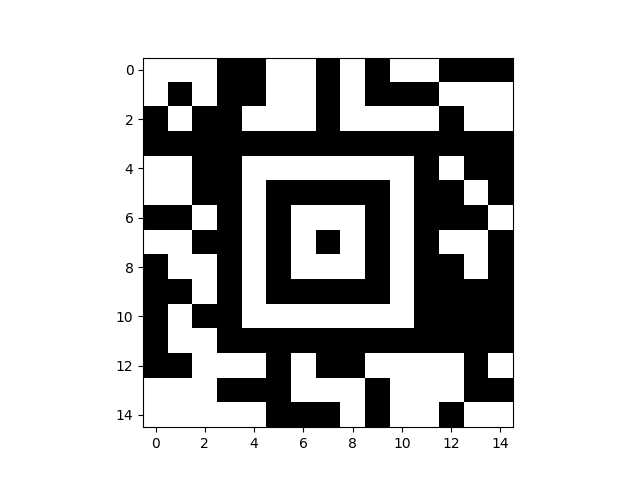
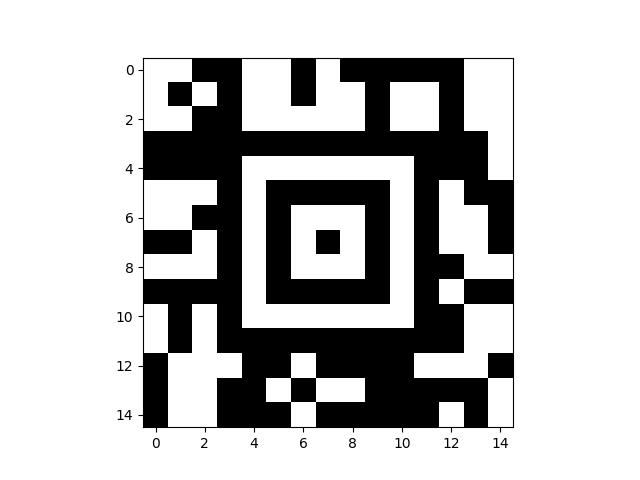
Both encoder and decoder works

diff --git a/main.py b/main.py
@@ -55,7 +55,7 @@ initialize_consts()
[2 lines of base64/hex data omitted]
 
-# aztec = AztecBarcodeCompact(hello_debug)
+aztec = AztecBarcodeCompact(hello_debug)
 # v=aztec.get_mode()
 # print(v)
 
@@ -73,7 +73,7 @@ initialize_consts()
 # v = aztec.decode()
 # print(v)
 # print("".join(v))
-
+# WORDS [0, 5, 1, 7, 13, 10, 5]                                                                                                                       
 
 
 aztec = AztecBarcodeCompact(np.zeros((15,15)))

diff --git a/pyztec/aztec.py b/pyztec/aztec.py
@@ -328,7 +328,7 @@ class AztecBarcodeCompact:
             codewords = (mode_msg & 0b111111) + 1
             self.num_layers = num_layers
             self.num_codewords = codewords
-
+        print(codewords, word_array)
         return num_layers, codewords
 
 
@@ -413,9 +413,9 @@ class AztecBarcodeCompact:
         # data_squares = n_squares - 121
 
         codewords = self._get_codewords(CODEWORD_SIZE)
-        
+        print("CODEWORDS", codewords)
         bitstring = self._get_bit_string(codewords, CODEWORD_SIZE)
-        # print(bitstring)
+        print(bitstring)
 
         ind = 0
         mode="upper"
@@ -788,7 +788,7 @@ class AztecBarcodeCompact:
         self.nparray = nparr
 
         pos = 0
-        for x,y in self._read_compact_data_codewords(CODEWORD_SIZE):
+        for y,x in self._read_compact_data_codewords(CODEWORD_SIZE):
             if pos < len(bitstring):
                 nparr[x,y] = 0 if bitstring[pos] == "0" else 1
                 pos += 1
@@ -805,7 +805,7 @@ class AztecBarcodeCompact:
         # print("MODE_MESSAGE:",mode_message)
         offset = 2*lsize
 
-        _words = [int(mode_message[:4], 2), int(mode_message[4:])]
+        _words = [int(mode_message[:4], 2), int(mode_message[4:],2)]
         rsc = reedsolo.RSCodec(5, c_exp=4, fcr=1, prim=AztecPolynomials.POLY_4.value)
         _words = list(rsc.encode(_words))
 
@@ -814,7 +814,7 @@ class AztecBarcodeCompact:
         print("BITSTRING", bitstring, len(bitstring))
         pos = 0
         for x,y in self._generate_compact_mode_sequences():
-            print("XY",x,y, bitstring[pos])
+            # print("XY",x,y, bitstring[pos])
             if pos < len(bitstring):
                 blank_rune[x,y] = 0 if bitstring[pos] == "0" else 1
                 pos+=1
@@ -828,6 +828,7 @@ class AztecBarcodeCompact:
 
         # convert string into character array, includes escape sequences and special characters.
         char_arr = self._convert_input_string_to_seq(input_string)
+        print("CHAR ARRAY", char_arr)
 
         # convert the character array into binary string
         bitstring = self._convert_charray_bitstring(char_arr)
@@ -841,22 +842,28 @@ class AztecBarcodeCompact:
 
         # split the string into 6 bit codewords
         codewords = self._compute_codewords_from_bitstring(bitstring); # array of codewords that needs to be encoded
+        self.num_codewords = len(codewords)
+        num_codewords = len(codewords)
+
+        print("CODING CODE", codewords)
         # add reed-solomon codewords
         codewords = self._reedsolo_enc(codewords, max_codewords, lsize)
+        print("ENCODING CODE", codewords)
 
         bitstring = self._compute_final_bitstring_from_codewords(codewords, symbol_size)
+        print("FINAL BITSTRING",bitstring)
 
         # encode into the np array
         nparray = self._get_nparray_from_codewords(bitstring, symbol_size, lsize)
         self.nparray = nparray
 
-        nparr = self._encode_rune(nparray, lsize, len(codewords))
+        nparr = self._encode_rune(nparray, lsize, num_codewords)
 
         plt.imshow(nparr, cmap="Greys")
         plt.show()
 
         # return np array
-        return nparray
+        return nparr
 
 
 
